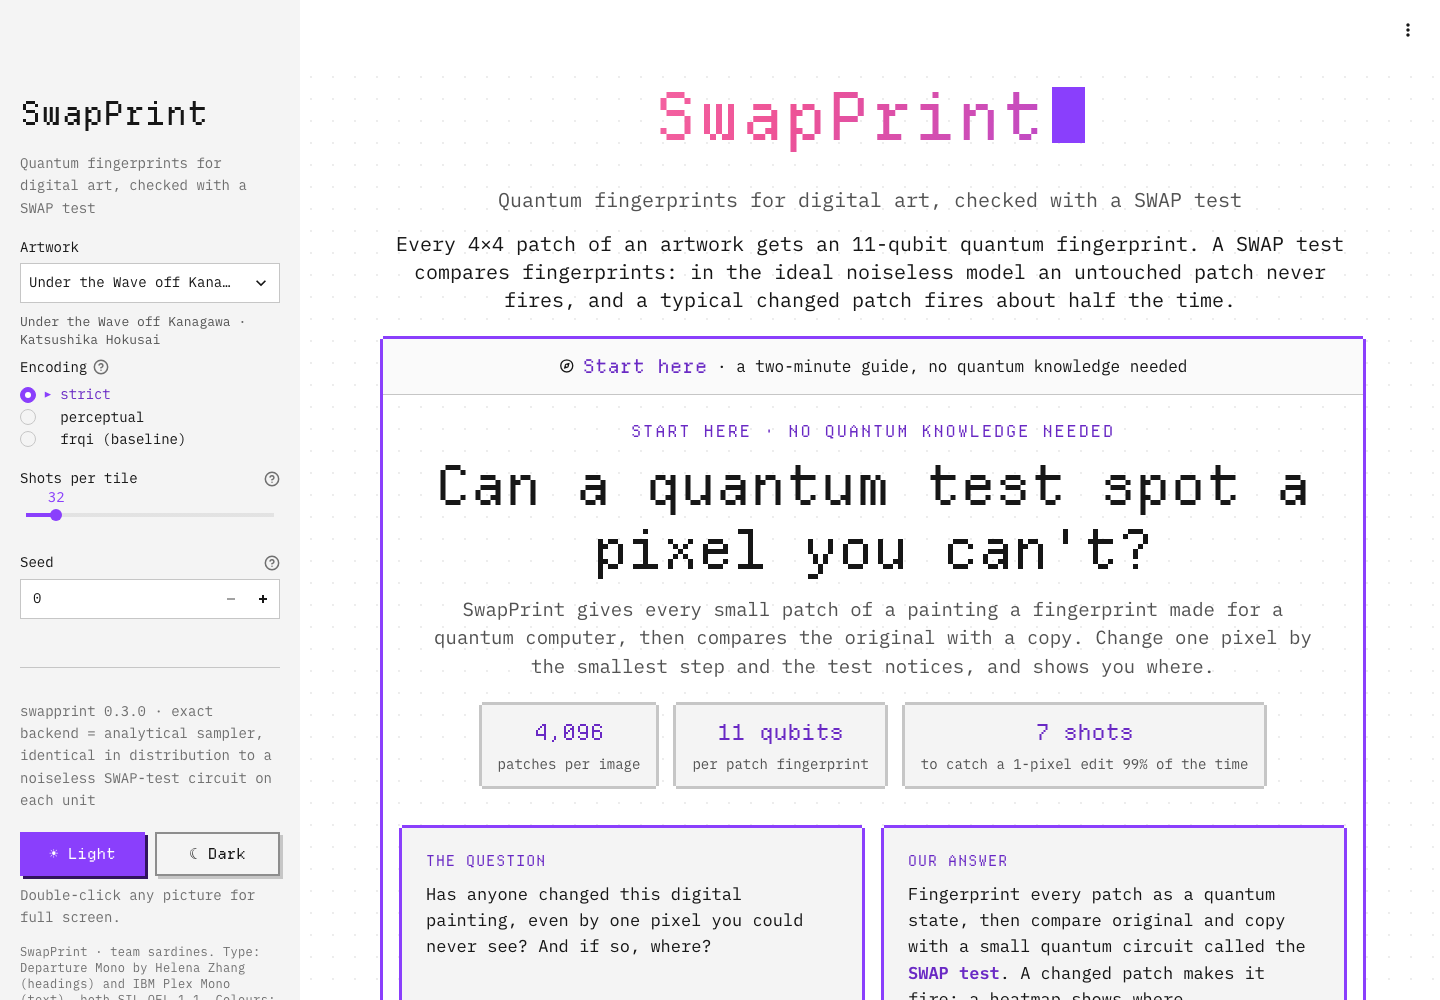
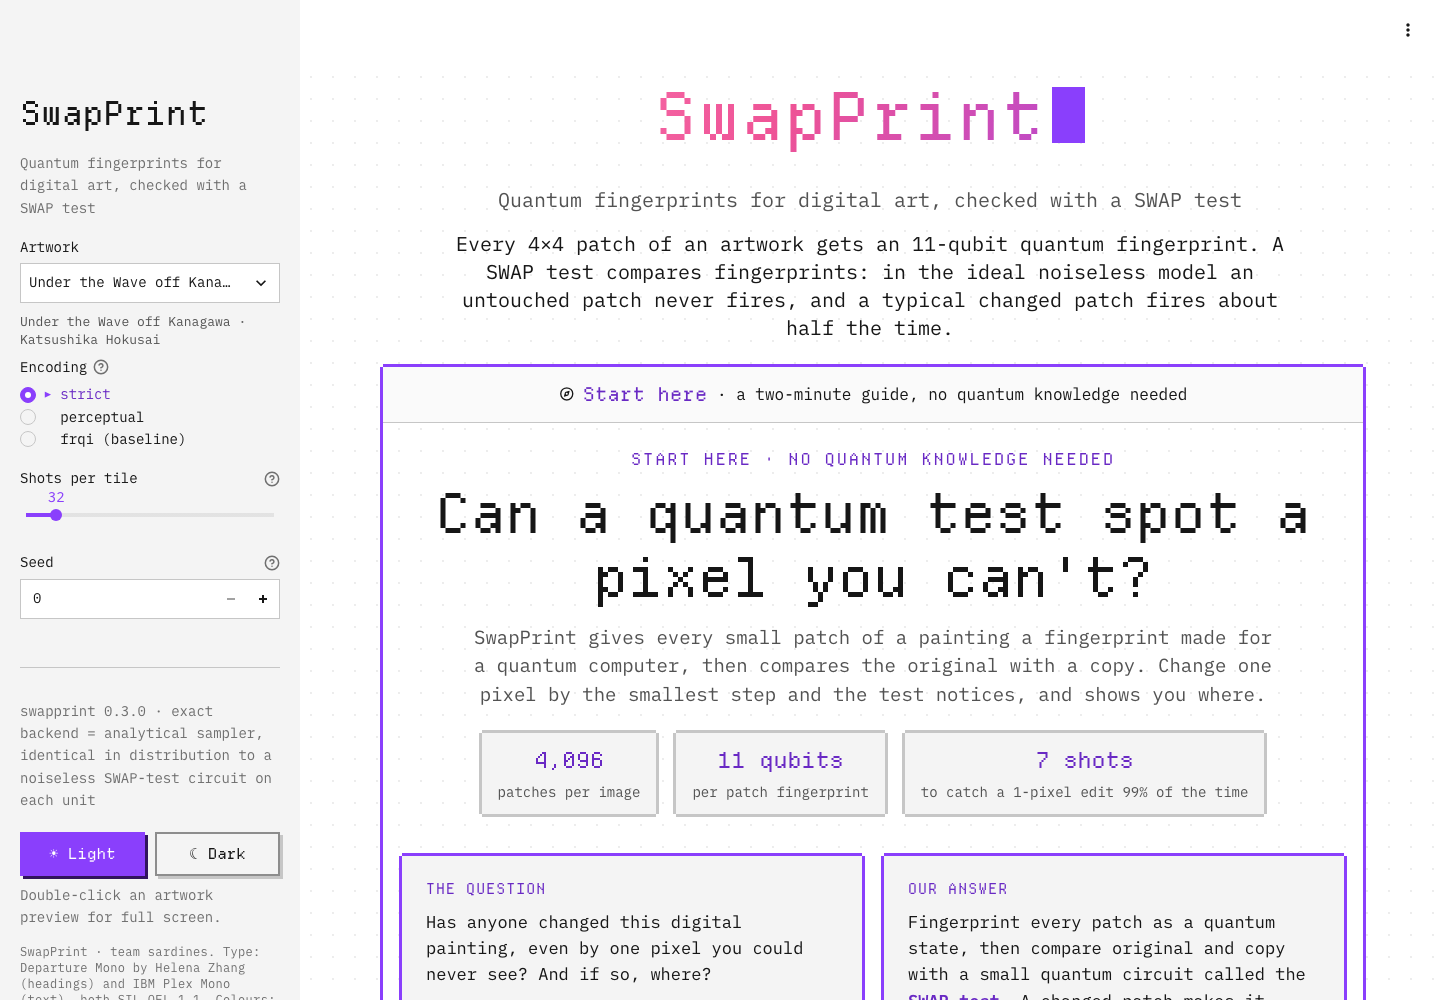
app: fixes from Codex's UI/UX audit (each checked against the screenshots)
- Regression fix: button centring had shrunk 'Surprise me' and 'Challenge a friend' (their tooltip wrappers);
  they fill their column again; content-width buttons stay centred.
- Verify, NO CHANGE: the zoomed example tile is ringed purple and labelled 'an example tile: no fingerprint
  difference anywhere' instead of a magenta 'most suspicious' ring (magenta means change detected).
- Contrast: selected tab text uses the lighter accent (AA on dark); digits on magenta shot squares are dark.
- Readability: no mid-word hyphen breaks in the five-step cards; centred prose capped at ~70 characters a line;
  16 px intro text on phones.
- Tamper: the full tool name shows under the Tool field (the closed field cuts it off).
- Results intro explains the evidence instead of listing JSON file names; a divider separates the live SWAP
  test from the Aer panel; the sidebar hint says double-click works on artwork previews.

diff --git a/app/pixel.css b/app/pixel.css
@@ -258,7 +258,24 @@ iframe[title="streamlit_image_coordinates.streamlit_image_coordinates"] { aspect
 [data-testid="stMain"] [data-testid="stElementContainer"]:has(> [data-testid="stButton"]),
 [data-testid="stMain"] [data-testid="stElementContainer"]:has(> [data-testid="stDownloadButton"]),
 [data-testid="stMain"] [data-testid="stElementContainer"]:has(> .stButton),
-[data-testid="stMain"] [data-testid="stElementContainer"]:has(> .stDownloadButton) { align-self: center; }
+[data-testid="stMain"] [data-testid="stElementContainer"]:has(> .stDownloadButton) { align-self: stretch; width: 100% !important; }
 /* Live SWAP test: the row of shots and its running summary are centred too (not the step-5 picture on How it works) */
 [data-testid="stMain"] .shots:not(.sp-step .shots) { justify-content: center; }
 [data-testid="stMain"] .sp-shotsum { text-align: center; margin-bottom: 18px; }
+
+/* UI/UX audit fixes (Codex review, each checked): */
+/* selected tab text meets WCAG AA on dark (accent-text, not the darker accent); the ▶ and underline stay purple */
+[data-testid="stTab"][aria-selected="true"], [data-testid="stTab"][aria-selected="true"] p { color: var(--accent-text) !important; }
+/* digits on magenta shot squares: dark text for contrast (white on #ee5396 was ~3.3:1) */
+.shot.one, .sp-step .viz .shots .one { color: #161616 !important; }
+/* five-step cards: no mid-word hyphen breaks in the narrow cards */
+.sp-step .txt, .sp-step .ttl { hyphens: manual !important; -webkit-hyphens: manual !important; }
+/* centred prose stays readable: at most ~70 characters a line */
+[data-testid="stMain"] .lead, .sp-hero .sub, .sp-plain { max-width: 70ch; margin-left: auto !important; margin-right: auto !important; }
+@media (max-width: 640px) { [data-testid="stMain"] .lead, [data-testid="stMain"] .sp-sub { font-size: 16px; line-height: 1.5; } }
+/* buttons with a hover tip (Surprise me, Challenge a friend) sit inside tooltip wrappers that the centring above
+   shrank; they ask for full width, so the wrappers and the button fill their column again */
+[data-testid="stMain"] .stButton > div:has([data-testid="stTooltipIcon"]),
+[data-testid="stMain"] .stButton [data-testid="stTooltipIcon"],
+[data-testid="stMain"] .stButton [data-testid="stTooltipHoverTarget"],
+[data-testid="stMain"] .stButton [data-testid="stTooltipHoverTarget"] > button { width: 100%; }

diff --git a/app/streamlit_app.py b/app/streamlit_app.py
@@ -334,7 +334,7 @@ with st.sidebar:
                f"noiseless SWAP-test circuit on each unit")
     st.markdown('<div class="sp-modes"><a class="sp-mode light" href="#theme-light">☀ Light</a>'
                 '<a class="sp-mode dark" href="#theme-dark">☾ Dark</a></div>', unsafe_allow_html=True)
-    st.caption("Double-click any picture for full screen.")
+    st.caption("Double-click an artwork preview for full screen.")
     st.markdown('<div class="sp-credit">SwapPrint · team sardines. Type: Departure Mono by Helena Zhang (headings) and '
                 'IBM Plex Mono (text), both SIL OFL 1.1. '
                 'Colours: Carbon Design System tokens (Apache-2.0). Not made or endorsed by IBM.</div>',
@@ -580,6 +580,7 @@ def tab_tamper():
     with right.container(border=True):
         st.markdown("**Edit tools**")
         name = st.selectbox("Tool", list(core.TOOLS), format_func=lambda n: core.TOOLS[n][0], key="tool")
+        st.markdown(f'<div class="sp-artwork-full">{html.escape(core.TOOLS[name][0])}</div>', unsafe_allow_html=True)
         step = None
         if name == "pixel":
             ch = st.radio("Channel", [0, 1, 2], format_func=lambda c: "RGB"[c], horizontal=True)
@@ -787,10 +788,13 @@ def tab_verify():
         unit = ss.aer_pick if ss.aer_pick is not None else core.most_suspicious(cmp)
         r, c = core.unit_rc(cmp, unit)
         fp = fp_of(base, mode)
-        why = "picked by you" if ss.aer_pick is not None else "most suspicious by the exact overlap"
+        same = cmp.p1.flat[unit] == 0
+        why = ("picked by you" if ss.aer_pick is not None else
+               "an example tile: no fingerprint difference anywhere" if same else "most suspicious by the exact overlap")
         st.markdown(f"**{word.title()} (row {r}, col {c})**, {why}: overlap {cmp.overlap.flat[unit]:.7f}, "
                     f"p1 {cmp.p1.flat[unit]:.3g}, {int(cmp.ones.flat[unit])} ones in {cmp.shots:,} shots")
-        za, zb = core.zoom_pair(base, edited, unit, cmp.grid, fp.unit_px, 230)
+        za, zb = core.zoom_pair(base, edited, unit, cmp.grid, fp.unit_px, 230,
+                                ring=core._rgb(PURPLE) if same else core.ACCENT)
         z1, z2 = st.columns(2)
         z1.image(za, caption="original", output_format="PNG", width="stretch")
         z2.image(zb, caption="edited", output_format="PNG", width="stretch")
@@ -802,6 +806,7 @@ def tab_verify():
                            "thumbnails. An integrity record, not a signature.")
 
     live_swap_test(cmp)
+    st.divider()
     aer_panel(cmp)
     compare_encodings()
 
@@ -1078,8 +1083,9 @@ def tab_how():
 @safe
 def tab_results():
     st.markdown("### Results")
-    st.caption("Figures from experiments/figures/, exactly as listed in captions.json (tamper experiments) and "
-               "core_captions.json (circuits, noise, hardware).")
+    st.caption("The recorded experiments: how reliably each kind of edit is caught, how much the encoding matters, "
+               "circuit cost, simulated noise, and a toy run on a real IBM chip. Sources: captions.json and "
+               "core_captions.json in experiments/figures/.")
     def captions(name: str) -> dict:
         try:
             return json.loads((core.FIG_DIR / name).read_text(encoding="utf-8"))

diff --git a/app/core.py b/app/core.py
@@ -342,7 +342,8 @@ def unit_rc(cmp_or_grid, unit: int) -> tuple[int, int]:
     return divmod(int(unit), grid[1])
 
 
-def zoom_pair(a: np.ndarray, b: np.ndarray, unit: int, grid, unit_px: int, size: int = 240) -> tuple[Image.Image, Image.Image]:
+def zoom_pair(a: np.ndarray, b: np.ndarray, unit: int, grid, unit_px: int, size: int = 240,
+              ring: tuple = ACCENT) -> tuple[Image.Image, Image.Image]:
     """The unit with one unit of context on each side, from both images, enlarged with crisp pixels and ringed."""
     r, c = unit_rc(grid, unit)
     ctx = unit_px if unit_px < 64 else 0
@@ -354,7 +355,7 @@ def zoom_pair(a: np.ndarray, b: np.ndarray, unit: int, grid, unit_px: int, size:
         s = size / (x1 - x0)
         ImageDraw.Draw(crop).rectangle(
             [(c * unit_px - x0) * s, (r * unit_px - y0) * s, ((c + 1) * unit_px - x0) * s - 1, ((r + 1) * unit_px - y0) * s - 1],
-            outline=ACCENT, width=3,
+            outline=ring, width=3,
         )
         out.append(crop)
     return out[0], out[1]
